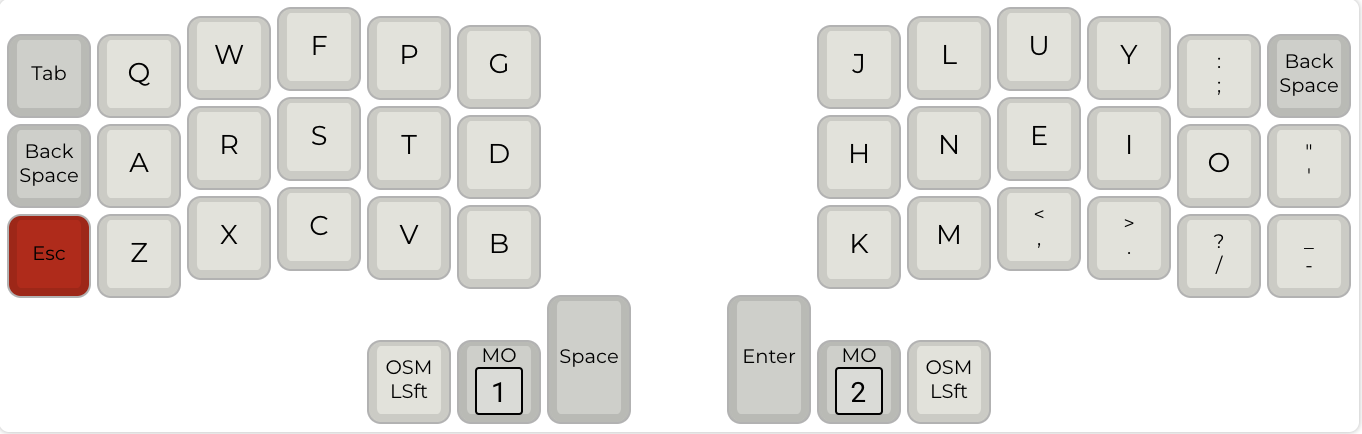
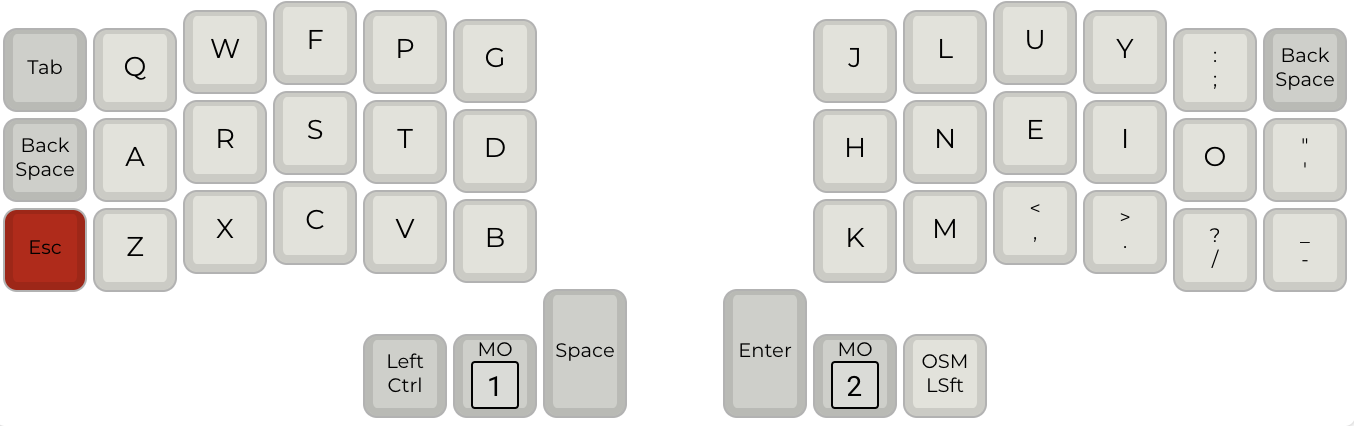
keymap tweaks

diff --git a/keymap.c b/keymap.c
@@ -71,7 +71,7 @@ const uint16_t PROGMEM keymaps[][MATRIX_ROWS][MATRIX_COLS] = {
   //|--------+--------+--------+--------+--------+--------|                    |--------+--------+--------+--------+--------+--------|
        KC_ESC,    KC_Z,    KC_X,    KC_C,    KC_V,    KC_B,                         KC_K,    KC_M, KC_COMM,  KC_DOT, KC_SLSH, KC_MINS,
   //|--------+--------+--------+--------+--------+--------+--------|  |--------+--------+--------+--------+--------+--------+--------|
-                                           DZ_OSS,MO(_NAV),  KC_SPC,     KC_ENT,MO(_NUM),  DZ_OSS
+                                          KC_LCTL,MO(_NAV),  KC_SPC,     KC_ENT,MO(_NUM),  DZ_OSS
                                       //`--------------------------'  `--------------------------'
 
   ),
@@ -84,7 +84,7 @@ const uint16_t PROGMEM keymaps[][MATRIX_ROWS][MATRIX_COLS] = {
   //|--------+--------+--------+--------+--------+--------|                    |--------+--------+--------+--------+--------+--------|
       _______, _______, _______, _______, _______, _______,                      XXXXXXX, XXXXXXX, XXXXXXX, XXXXXXX, XXXXXXX, KC_CAPS,
   //|--------+--------+--------+--------+--------+--------+--------|  |--------+--------+--------+--------+--------+--------+--------|
-                                          _______, _______, _______,  MO(_LAW),MO(_FUNC), _______
+                                          _______, _______, _______, OSL(_LAW),MO(_FUNC), _______
                                       //`--------------------------'  `--------------------------'
   ),
 
@@ -92,11 +92,11 @@ const uint16_t PROGMEM keymaps[][MATRIX_ROWS][MATRIX_COLS] = {
   //,-----------------------------------------------------.                    ,-----------------------------------------------------.
        KC_ESC, DZTDLBC,    KC_7,    KC_8,    KC_9, DZTDRBC,                      _______, _______, KC_LPRN, KC_RPRN, _______, _______,
   //|--------+--------+--------+--------+--------+--------|                    |--------+--------+--------+--------+--------+--------|
-    OSL(_LAW), KC_SCLN,    KC_4,    KC_5,    KC_6,  KC_EQL,                      _______, DZ_RSFT, DZ_RCTL, DZ_LALT, DZ_RGUI, _______,
+      KC_BSPC, KC_SCLN,    KC_4,    KC_5,    KC_6,  KC_EQL,                      _______, DZ_RSFT, DZ_RCTL, DZ_LALT, DZ_RGUI, _______,
   //|--------+--------+--------+--------+--------+--------|                    |--------+--------+--------+--------+--------+--------|
-   OSL(_FUNC),  KC_GRV,    KC_1,    KC_2,    KC_3, KC_BSLS,                      _______, _______, _______, _______, _______, _______, 
+    OSL(_LAW),  KC_GRV,    KC_1,    KC_2,    KC_3, KC_BSLS,                      _______, _______, _______, _______, _______, _______, 
   //|--------+--------+--------+--------+--------+--------+--------|  |--------+--------+--------+--------+--------+--------+--------|
-                                          KC_LPRN,    KC_0, KC_RPRN,    _______, _______, _______
+                                          _______,    KC_0, _______,    _______, _______, _______
                                       //`--------------------------'  `--------------------------'
   ),
 
@@ -120,7 +120,7 @@ const uint16_t PROGMEM keymaps[][MATRIX_ROWS][MATRIX_COLS] = {
   //|--------+--------+--------+--------+--------+--------|                    |--------+--------+--------+--------+--------+--------|
       XXXXXXX,  KC_F10,   KC_F1,   KC_F2,   KC_F3, KC_PAUS,                     RGB_RMOD, RGB_HUD, RGB_SAD, RGB_VAD, RGB_SPD,  DZ_WIN,
   //|--------+--------+--------+--------+--------+--------+--------|  |--------+--------+--------+--------+--------+--------+--------|
-                                          _______, _______, DZ_NBSP,    _______, _______, _______
+                                          _______, _______, _______,    _______, _______, _______
                                       //`--------------------------'  `--------------------------'
  
   )

diff --git a/dizave.c b/dizave.c
@@ -342,3 +342,59 @@ bool dizave_process_record_user(uint16_t keycode, keyrecord_t *record)
 
   return true;
 }
+
+// https://gist.github.com/bert/1085538
+
+void plot_line (int x0, int y0, int x1, int y1, bool on)
+{
+  int dx =  abs (x1 - x0), sx = x0 < x1 ? 1 : -1;
+  int dy = -abs (y1 - y0), sy = y0 < y1 ? 1 : -1; 
+  int err = dx + dy, e2; /* error value e_xy */
+ 
+  for (;;){  /* loop */
+    oled_write_pixel(x0,y0,on);
+//    setPixel (x0,y0);
+    if (x0 == x1 && y0 == y1) break;
+    e2 = 2 * err;
+    if (e2 >= dy) { err += dy; x0 += sx; } /* e_xy+e_x > 0 */
+    if (e2 <= dx) { err += dx; y0 += sy; } /* e_xy+e_y < 0 */
+  }
+}
+
+void
+raster_circle (int x0, int y0, int radius, bool on)
+{
+  int f = 1 - radius;
+  int ddF_x = 1;
+  int ddF_y = -2 * radius;
+  int x = 0;
+  int y = radius;
+ 
+  oled_write_pixel (x0, y0 + radius, on);
+  oled_write_pixel (x0, y0 - radius, on);
+  oled_write_pixel (x0 + radius, y0, on);
+  oled_write_pixel (x0 - radius, y0, on);
+  while (x < y)
+  {
+    // ddF_x == 2 * x + 1;
+    // ddF_y == -2 * y;
+    // f == x*x + y*y - radius*radius + 2*x - y + 1;
+    if (f >= 0) 
+    {
+      y--;
+      ddF_y += 2;
+      f += ddF_y;
+    }
+    x++;
+    ddF_x += 2;
+    f += ddF_x;    
+    oled_write_pixel (x0 + x, y0 + y, on);
+    oled_write_pixel (x0 - x, y0 + y, on);
+    oled_write_pixel (x0 + x, y0 - y, on);
+    oled_write_pixel (x0 - x, y0 - y, on);
+    oled_write_pixel (x0 + y, y0 + x, on);
+    oled_write_pixel (x0 - y, y0 + x, on);
+    oled_write_pixel (x0 + y, y0 - x, on);
+    oled_write_pixel (x0 - y, y0 - x, on);
+  }
+}
